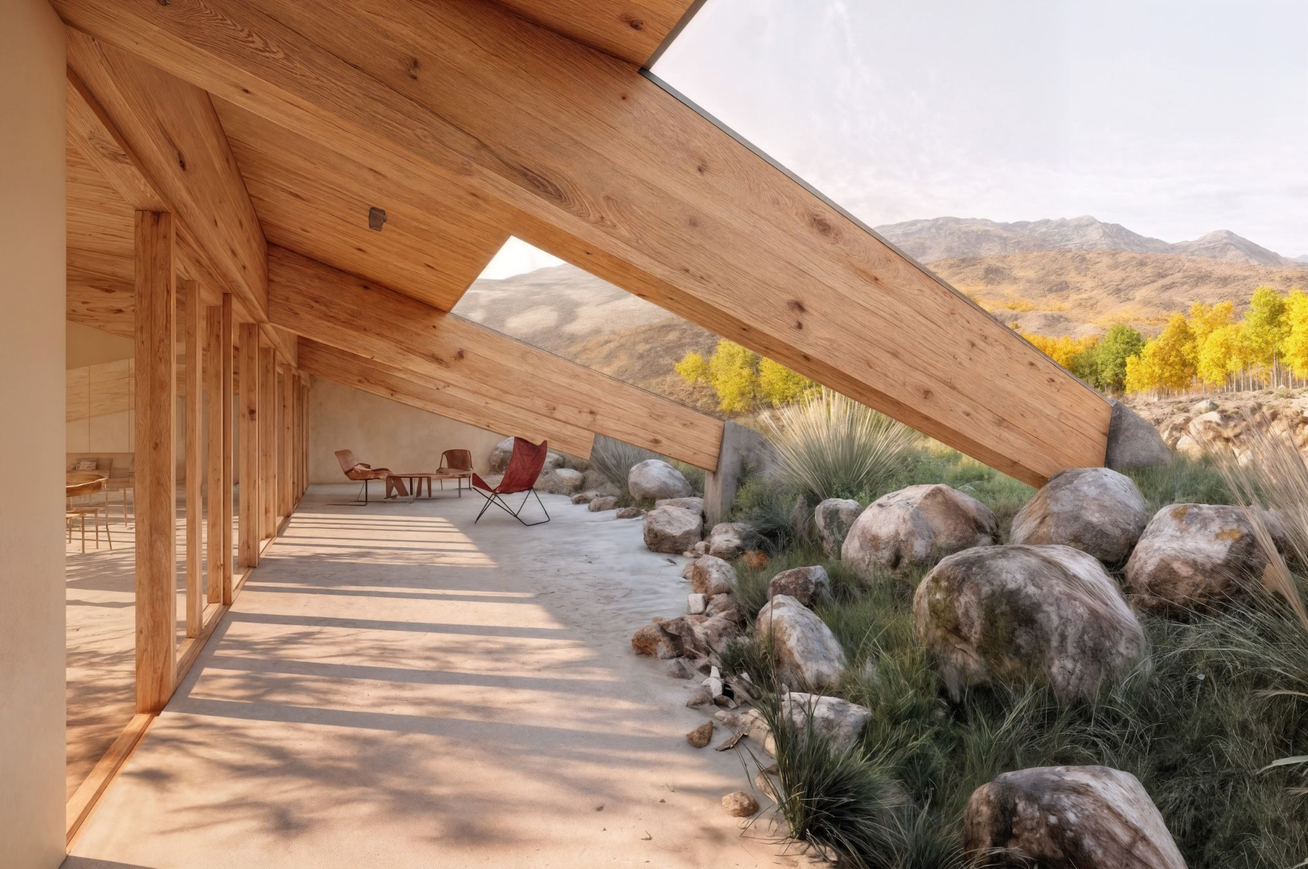
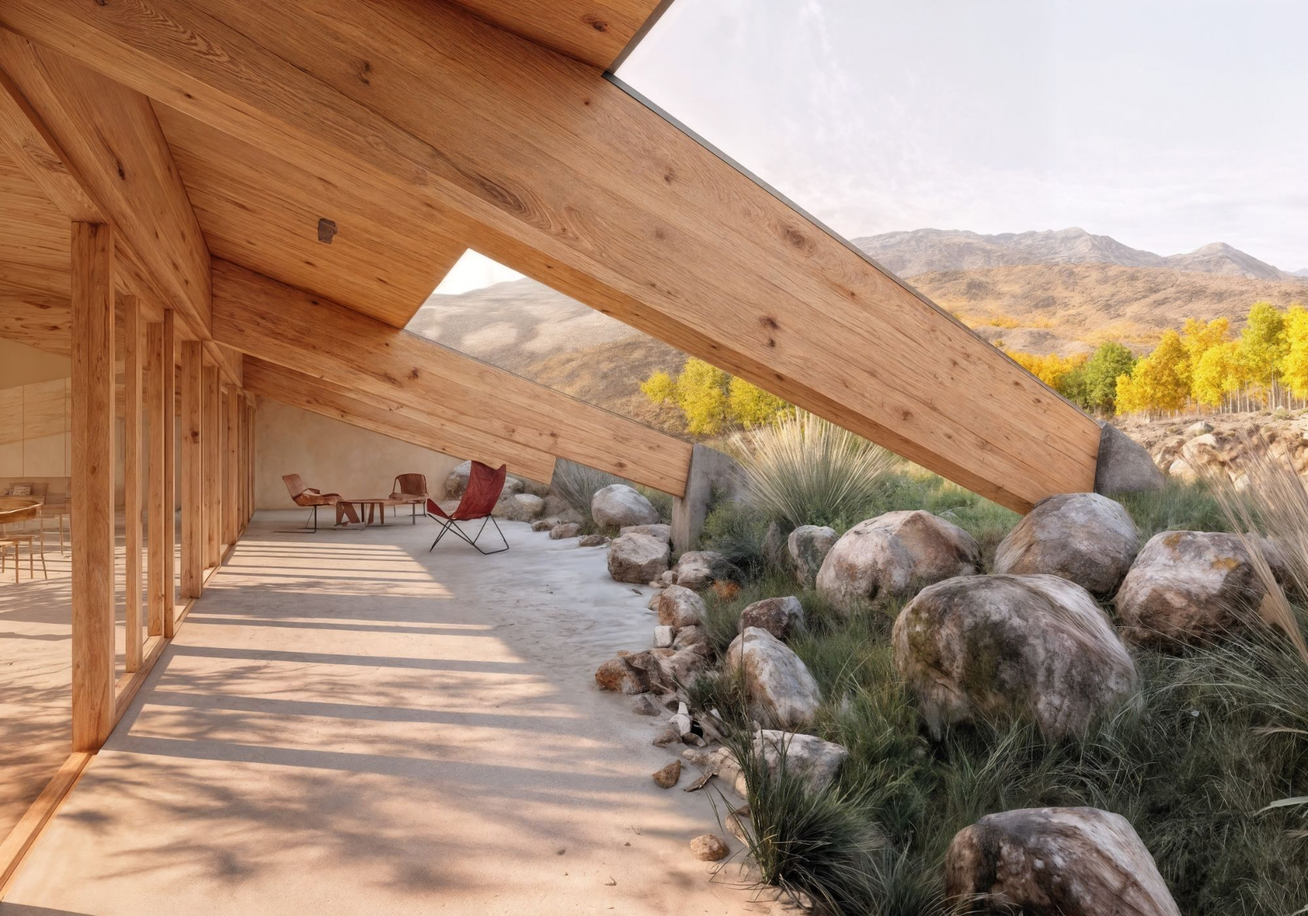
Spa en Utah: reemplaza la imagen principal de la terraza
Nueva versión del render de la terraza (2000 × 1401) y medidas
actualizadas en el contenido; capturas regeneradas.

Claude-Session: https://claude.ai/code/session_014uxs1XgnpcTBjskYz8sYSf

diff --git a/src/content/proyectos.ts b/src/content/proyectos.ts
@@ -24,7 +24,7 @@ export const proyectos: Proyecto[] = [
       "Paisajismo para un spa en el paisaje árido de Utah. Rocas, gramíneas y especies de clima seco integran el edificio y su cubierta verde con el cerro, con un jardín que necesita muy poco riego.",
     servicio: "diseno-construccion",
     destacado: true,
-    portada: img("/proyectos/spa-utah/terraza.jpg", "Render de la terraza del spa bajo vigas de madera, junto a rocas y gramíneas", 2000, 1329),
+    portada: img("/proyectos/spa-utah/terraza.jpg", "Render de la terraza del spa bajo vigas de madera, junto a rocas y gramíneas", 2000, 1401),
     galeria: [
       img("/proyectos/spa-utah/vista-general.jpg", "Render del spa con cubierta verde integrado al cerro, rodeado de agaves y arbustos", 2000, 891),
       img("/proyectos/spa-utah/piscina.jpg", "Render de la piscina y el jardín de flores silvestres frente a las montañas", 2000, 985),
